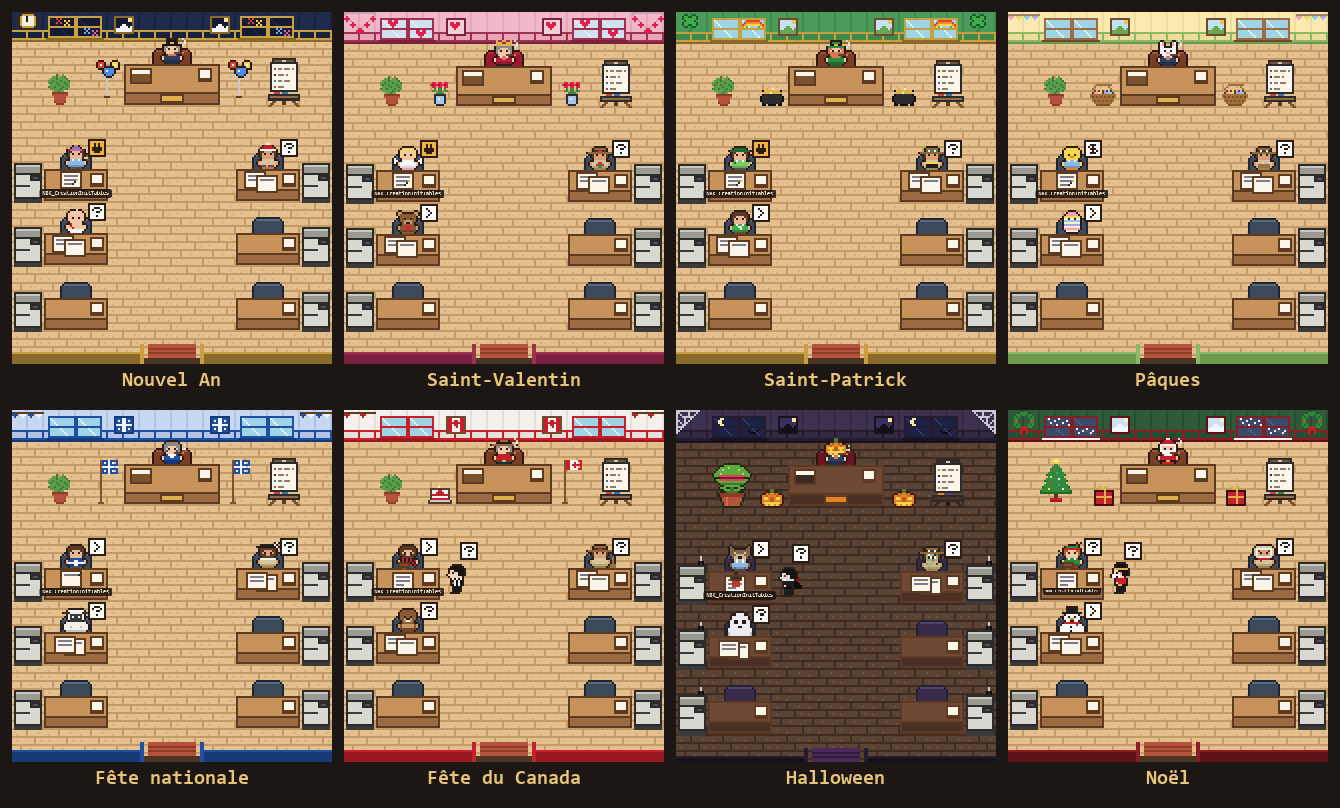
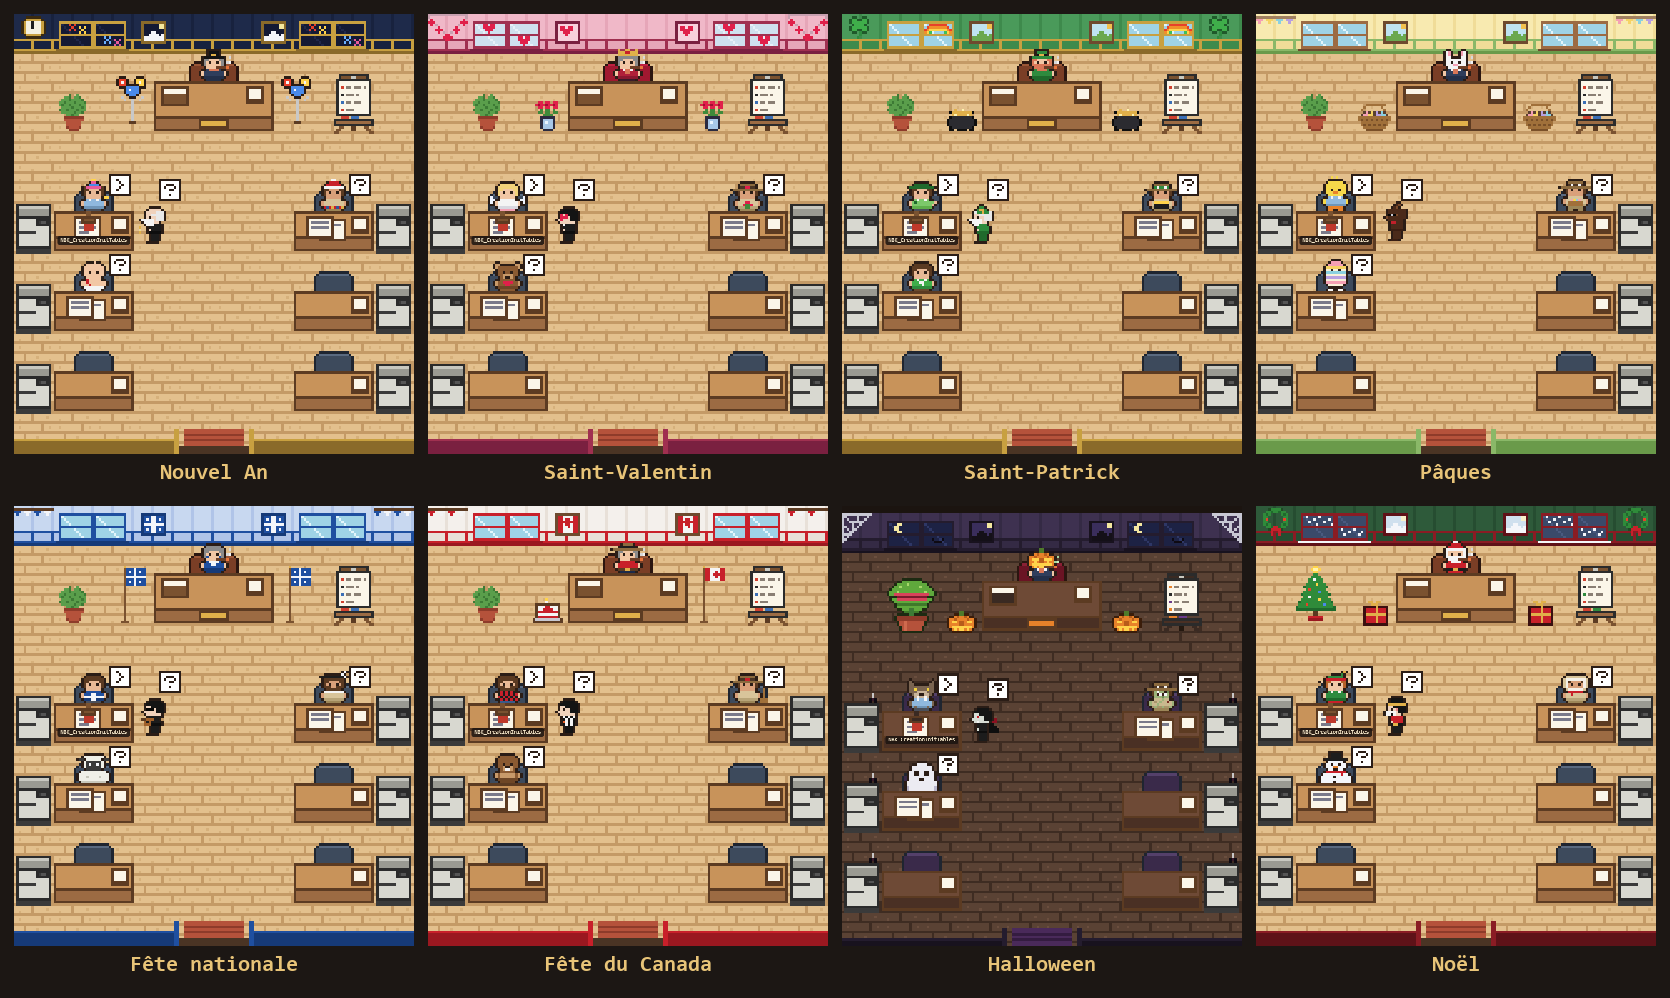
Captures en plein écran, et la liste d'étapes avec le journal
Les captures sont prises en 1920 × 1080, pour que le panneau tienne sur
une ligne. Les huit thèmes montrent la même scène, relecteur compris.

diff --git a/LISEZMOI.md b/LISEZMOI.md
@@ -6,6 +6,10 @@ Un mod de Claude Code qui montre les agents de la session au travail, dans une v
 
 ![Le bureau pendant une session : le gestionnaire en haut, les sous-agents à leur poste, un auditeur qui va voir le rédacteur](captures/bureau.png)
 
+Le bouton **Étapes** remplace le bureau par la liste d'étapes que Claude tient à jour pendant la séance. Le journal, à droite, résume qui est venu et comment ça s'est fini :
+
+![La liste d'étapes à gauche, le journal à droite, une fois tous les agents repartis](captures/etapes.png)
+
 Le bureau se déguise tout seul pour les fêtes, selon le mois :
 
 ![Les huit thèmes : Nouvel An, Saint-Valentin, Saint-Patrick, Pâques, Fête nationale, Fête du Canada, Halloween, Noël](captures/themes.png)

diff --git a/README.md b/README.md
@@ -6,6 +6,10 @@ A Claude Code mod that shows your session's agents at work, in a pixel-art town 
 
 ![The office during a session: the manager at the top, subagents at their desks, a reviewer walking over to the writer](captures/bureau.png)
 
+The **Étapes** button swaps the office for the step list Claude keeps up to date during the session. The log on the right recaps who came and how it ended:
+
+![The step list on the left, the log on the right, once every agent has left](captures/etapes.png)
+
 > **Heads-up: the interface is in French.** The mod works the same for everyone, but the labels and messages on the page are in French.
 
 The office dresses up for the holidays, on its own, according to the month:
